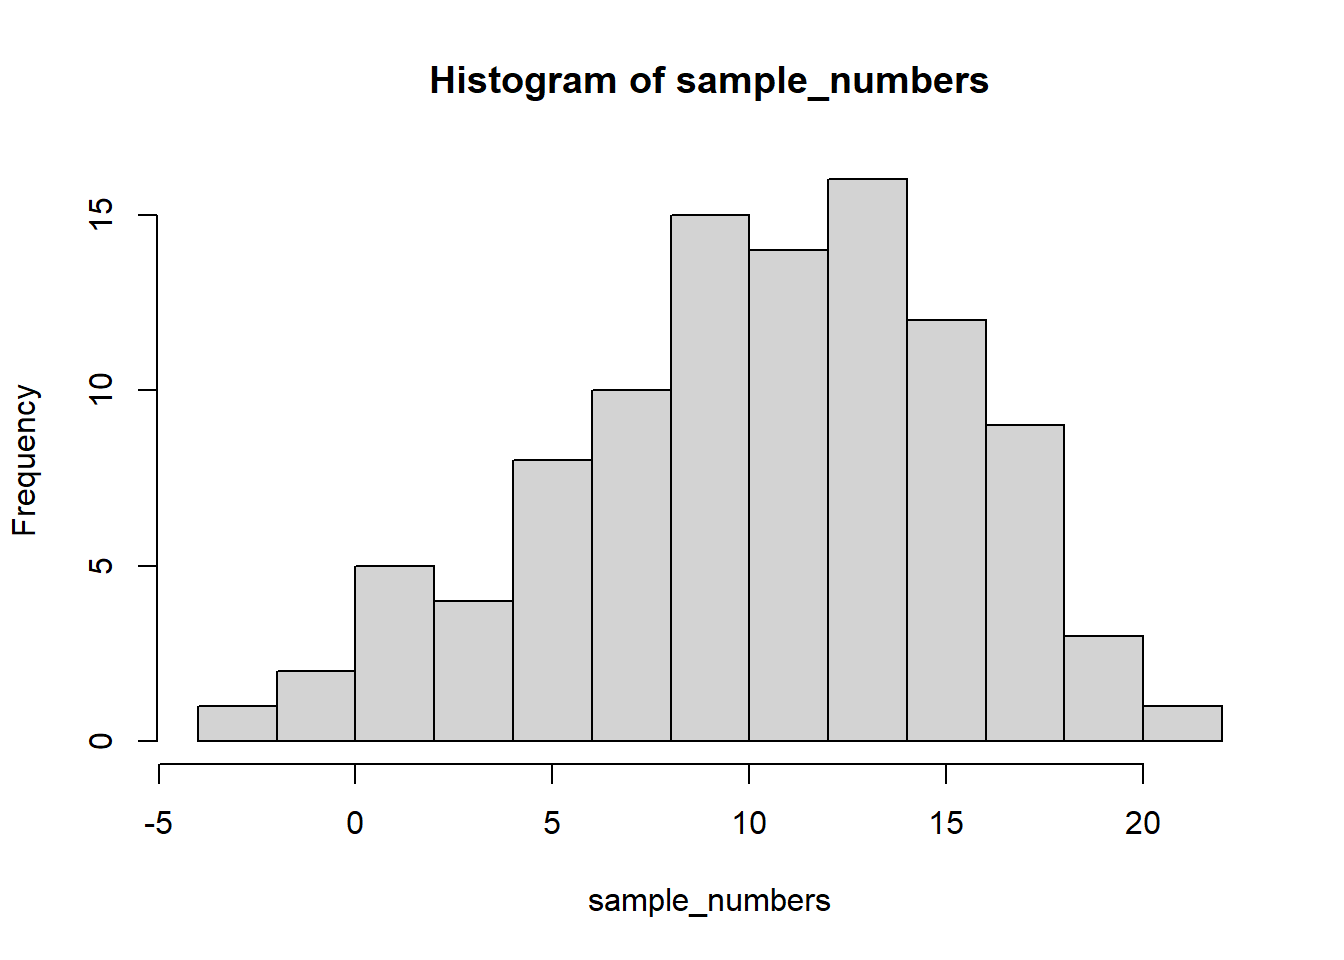
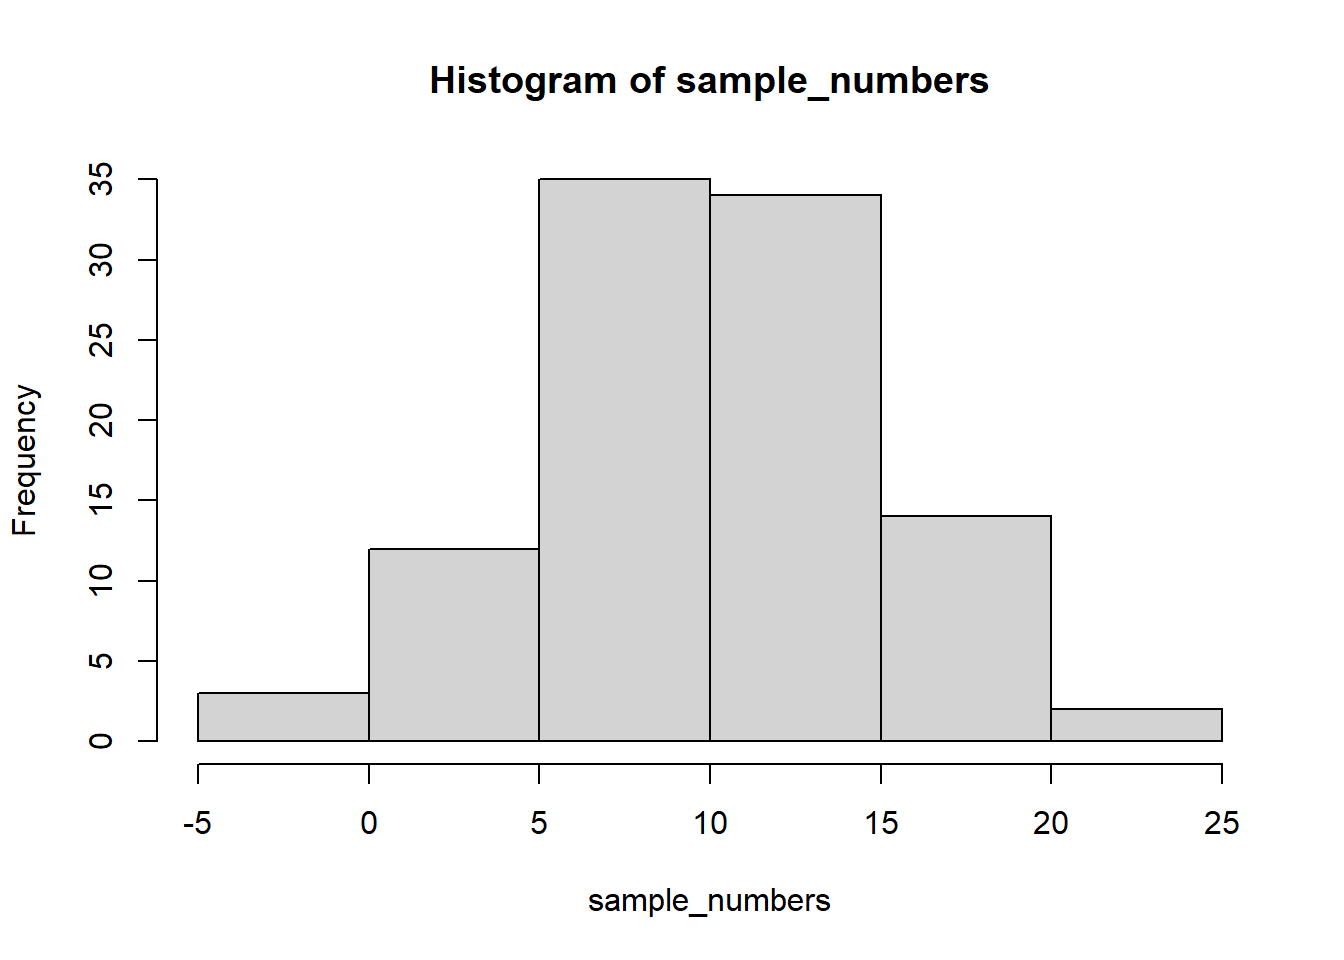
Lab 2.5
missed a Results alternative in previous update

diff --git a/docs/lab-2-descriptive-statistics-and-more-graphs.html b/docs/lab-2-descriptive-statistics-and-more-graphs.html
@@ -710,22 +710,22 @@ Describing comic sensibility is near impossible. It’s sort of an abstract sill
 <h4><span class="header-section-number">2.2.3.1</span> range<a href="lab-2-descriptive-statistics-and-more-graphs.html#range" class="anchor-section" aria-label="Anchor link to header"></a></h4>
 <p>The range is the minimum and maximum values in the set, we use the <code>range</code> function.</p>
 <div class="sourceCode" id="cb21"><pre class="sourceCode r"><code class="sourceCode r"><span id="cb21-1"><a href="lab-2-descriptive-statistics-and-more-graphs.html#cb21-1" tabindex="-1"></a><span class="fu">range</span>(sample_numbers)</span></code></pre></div>
-<pre><code>## [1] -2.224096 20.051960</code></pre>
+<pre><code>## [1] -4.404486 21.896583</code></pre>
 </div>
 <div id="var-variance" class="section level4 hasAnchor" number="2.2.3.2">
 <h4><span class="header-section-number">2.2.3.2</span> var = variance<a href="lab-2-descriptive-statistics-and-more-graphs.html#var-variance" class="anchor-section" aria-label="Anchor link to header"></a></h4>
 <p>We can find the sample variance using <code>var</code>. Note, divides by (n-1)</p>
 <div class="sourceCode" id="cb23"><pre class="sourceCode r"><code class="sourceCode r"><span id="cb23-1"><a href="lab-2-descriptive-statistics-and-more-graphs.html#cb23-1" tabindex="-1"></a><span class="fu">var</span>(sample_numbers)</span></code></pre></div>
-<pre><code>## [1] 26.0463</code></pre>
+<pre><code>## [1] 26.42051</code></pre>
 </div>
 <div id="sd-standard-deviation" class="section level4 hasAnchor" number="2.2.3.3">
 <h4><span class="header-section-number">2.2.3.3</span> sd = standard deviation<a href="lab-2-descriptive-statistics-and-more-graphs.html#sd-standard-deviation" class="anchor-section" aria-label="Anchor link to header"></a></h4>
 <p>We find the sample standard deviation us SD. Note, divides by (n-1)</p>
 <div class="sourceCode" id="cb25"><pre class="sourceCode r"><code class="sourceCode r"><span id="cb25-1"><a href="lab-2-descriptive-statistics-and-more-graphs.html#cb25-1" tabindex="-1"></a><span class="fu">sd</span>(sample_numbers)</span></code></pre></div>
-<pre><code>## [1] 5.103558</code></pre>
+<pre><code>## [1] 5.140088</code></pre>
 <p>Remember that the standard deviation is just the square root of the variance, see:</p>
 <div class="sourceCode" id="cb27"><pre class="sourceCode r"><code class="sourceCode r"><span id="cb27-1"><a href="lab-2-descriptive-statistics-and-more-graphs.html#cb27-1" tabindex="-1"></a><span class="fu">sqrt</span>(<span class="fu">var</span>(sample_numbers))</span></code></pre></div>
-<pre><code>## [1] 5.103558</code></pre>
+<pre><code>## [1] 5.140088</code></pre>
 </div>
 <div id="all-descriptives" class="section level4 hasAnchor" number="2.2.3.4">
 <h4><span class="header-section-number">2.2.3.4</span> All Descriptives<a href="lab-2-descriptive-statistics-and-more-graphs.html#all-descriptives" class="anchor-section" aria-label="Anchor link to header"></a></h4>
@@ -733,21 +733,21 @@ Describing comic sensibility is near impossible. It’s sort of an abstract sill
 <div class="sourceCode" id="cb29"><pre class="sourceCode r"><code class="sourceCode r"><span id="cb29-1"><a href="lab-2-descriptive-statistics-and-more-graphs.html#cb29-1" tabindex="-1"></a>sample_numbers <span class="ot">&lt;-</span> <span class="fu">rnorm</span>(<span class="dv">100</span>,<span class="dv">10</span>,<span class="dv">5</span>)</span>
 <span id="cb29-2"><a href="lab-2-descriptive-statistics-and-more-graphs.html#cb29-2" tabindex="-1"></a></span>
 <span id="cb29-3"><a href="lab-2-descriptive-statistics-and-more-graphs.html#cb29-3" tabindex="-1"></a><span class="fu">sum</span>(sample_numbers)</span></code></pre></div>
-<pre><code>## [1] 968.7609</code></pre>
+<pre><code>## [1] 1005.739</code></pre>
 <div class="sourceCode" id="cb31"><pre class="sourceCode r"><code class="sourceCode r"><span id="cb31-1"><a href="lab-2-descriptive-statistics-and-more-graphs.html#cb31-1" tabindex="-1"></a><span class="fu">length</span>(sample_numbers)</span></code></pre></div>
 <pre><code>## [1] 100</code></pre>
 <div class="sourceCode" id="cb33"><pre class="sourceCode r"><code class="sourceCode r"><span id="cb33-1"><a href="lab-2-descriptive-statistics-and-more-graphs.html#cb33-1" tabindex="-1"></a><span class="fu">mean</span>(sample_numbers)</span></code></pre></div>
-<pre><code>## [1] 9.687609</code></pre>
+<pre><code>## [1] 10.05739</code></pre>
 <div class="sourceCode" id="cb35"><pre class="sourceCode r"><code class="sourceCode r"><span id="cb35-1"><a href="lab-2-descriptive-statistics-and-more-graphs.html#cb35-1" tabindex="-1"></a><span class="fu">median</span>(sample_numbers)</span></code></pre></div>
-<pre><code>## [1] 9.30284</code></pre>
+<pre><code>## [1] 9.898635</code></pre>
 <div class="sourceCode" id="cb37"><pre class="sourceCode r"><code class="sourceCode r"><span id="cb37-1"><a href="lab-2-descriptive-statistics-and-more-graphs.html#cb37-1" tabindex="-1"></a><span class="fu">my_mode</span>(sample_numbers)</span></code></pre></div>
-<pre><code>## [1] 9.56202</code></pre>
+<pre><code>## [1] 7.807587</code></pre>
 <div class="sourceCode" id="cb39"><pre class="sourceCode r"><code class="sourceCode r"><span id="cb39-1"><a href="lab-2-descriptive-statistics-and-more-graphs.html#cb39-1" tabindex="-1"></a><span class="fu">range</span>(sample_numbers)</span></code></pre></div>
-<pre><code>## [1] -3.273155 22.850704</code></pre>
+<pre><code>## [1] -1.434182 22.780541</code></pre>
 <div class="sourceCode" id="cb41"><pre class="sourceCode r"><code class="sourceCode r"><span id="cb41-1"><a href="lab-2-descriptive-statistics-and-more-graphs.html#cb41-1" tabindex="-1"></a><span class="fu">var</span>(sample_numbers)</span></code></pre></div>
-<pre><code>## [1] 24.87459</code></pre>
+<pre><code>## [1] 28.34016</code></pre>
 <div class="sourceCode" id="cb43"><pre class="sourceCode r"><code class="sourceCode r"><span id="cb43-1"><a href="lab-2-descriptive-statistics-and-more-graphs.html#cb43-1" tabindex="-1"></a><span class="fu">sd</span>(sample_numbers)</span></code></pre></div>
-<pre><code>## [1] 4.987443</code></pre>
+<pre><code>## [1] 5.323547</code></pre>
 </div>
 </div>
 <div id="descriptives-by-conditions" class="section level3 hasAnchor" number="2.2.4">
@@ -760,11 +760,11 @@ Describing comic sensibility is near impossible. It’s sort of an abstract sill
 <p>If you look at the <code>my_df</code> data frame, you will see it has 100 rows, there are 10 rows for each condition with a label in the <code>conditions</code> column, and 10 scores for each condition in the <code>scores</code> column. What if you wanted to know the mean of the scores in each condition? You would want to find 10 means.</p>
 <p>The slow way to do it would be like this:</p>
 <div class="sourceCode" id="cb46"><pre class="sourceCode r"><code class="sourceCode r"><span id="cb46-1"><a href="lab-2-descriptive-statistics-and-more-graphs.html#cb46-1" tabindex="-1"></a><span class="fu">mean</span>(my_df[my_df<span class="sc">$</span>conditions<span class="sc">==</span><span class="st">&quot;A&quot;</span>,]<span class="sc">$</span>scores)</span></code></pre></div>
-<pre><code>## [1] 10.79991</code></pre>
+<pre><code>## [1] 9.984587</code></pre>
 <div class="sourceCode" id="cb48"><pre class="sourceCode r"><code class="sourceCode r"><span id="cb48-1"><a href="lab-2-descriptive-statistics-and-more-graphs.html#cb48-1" tabindex="-1"></a><span class="fu">mean</span>(my_df[my_df<span class="sc">$</span>conditions<span class="sc">==</span><span class="st">&quot;B&quot;</span>,]<span class="sc">$</span>scores)</span></code></pre></div>
-<pre><code>## [1] 7.747982</code></pre>
+<pre><code>## [1] 8.74282</code></pre>
 <div class="sourceCode" id="cb50"><pre class="sourceCode r"><code class="sourceCode r"><span id="cb50-1"><a href="lab-2-descriptive-statistics-and-more-graphs.html#cb50-1" tabindex="-1"></a><span class="fu">mean</span>(my_df[my_df<span class="sc">$</span>conditions<span class="sc">==</span><span class="st">&quot;C&quot;</span>,]<span class="sc">$</span>scores)</span></code></pre></div>
-<pre><code>## [1] 7.944162</code></pre>
+<pre><code>## [1] 8.216414</code></pre>
 <div class="sourceCode" id="cb52"><pre class="sourceCode r"><code class="sourceCode r"><span id="cb52-1"><a href="lab-2-descriptive-statistics-and-more-graphs.html#cb52-1" tabindex="-1"></a><span class="co"># and then keep going</span></span></code></pre></div>
 <p>Nobody wants to do that! Not, me I stopped doing it that way, you should to.</p>
 <div id="group_by-and-summarise" class="section level4 hasAnchor" number="2.2.4.1">
@@ -785,16 +785,16 @@ Describing comic sensibility is near impossible. It’s sort of an abstract sill
 <pre><code>## # A tibble: 10 × 2
 ##    conditions means
 ##    &lt;chr&gt;      &lt;dbl&gt;
-##  1 A          10.8 
-##  2 B           7.75
-##  3 C           7.94
-##  4 D          11.8 
-##  5 E          11.7 
-##  6 F           7.52
-##  7 G           9.74
-##  8 H          11.4 
-##  9 I           9.28
-## 10 J          13.3</code></pre>
+##  1 A           9.98
+##  2 B           8.74
+##  3 C           8.22
+##  4 D          11.2 
+##  5 E          12.0 
+##  6 F          10.8 
+##  7 G          10.9 
+##  8 H           9.30
+##  9 I           9.93
+## 10 J          10.2</code></pre>
 <p>A couple things now. First, the print out of this was ugly. Let’s fix that. we put the results of our code into a new variable, then we use <code>knitr::kable</code> to print it out nicely when we <code>knit</code> the document</p>
 <div class="sourceCode" id="cb59"><pre class="sourceCode r"><code class="sourceCode r"><span id="cb59-1"><a href="lab-2-descriptive-statistics-and-more-graphs.html#cb59-1" tabindex="-1"></a>summary_df <span class="ot">&lt;-</span> my_df <span class="sc">%&gt;%</span></span>
 <span id="cb59-2"><a href="lab-2-descriptive-statistics-and-more-graphs.html#cb59-2" tabindex="-1"></a>               <span class="fu">group_by</span>(conditions) <span class="sc">%&gt;%</span></span>
@@ -811,43 +811,43 @@ Describing comic sensibility is near impossible. It’s sort of an abstract sill
 <tbody>
 <tr class="odd">
 <td align="left">A</td>
-<td align="right">10.799909</td>
+<td align="right">9.984587</td>
 </tr>
 <tr class="even">
 <td align="left">B</td>
-<td align="right">7.747982</td>
+<td align="right">8.742820</td>
 </tr>
 <tr class="odd">
 <td align="left">C</td>
-<td align="right">7.944161</td>
+<td align="right">8.216414</td>
 </tr>
 <tr class="even">
 <td align="left">D</td>
-<td align="right">11.819984</td>
+<td align="right">11.154947</td>
 </tr>
 <tr class="odd">
 <td align="left">E</td>
-<td align="right">11.703735</td>
+<td align="right">11.979763</td>
 </tr>
 <tr class="even">
 <td align="left">F</td>
-<td align="right">7.518675</td>
+<td align="right">10.766915</td>
 </tr>
 <tr class="odd">
 <td align="left">G</td>
-<td align="right">9.740545</td>
+<td align="right">10.906135</td>
 </tr>
 <tr class="even">
 <td align="left">H</td>
-<td align="right">11.388501</td>
+<td align="right">9.297604</td>
 </tr>
 <tr class="odd">
 <td align="left">I</td>
-<td align="right">9.278569</td>
+<td align="right">9.930178</td>
 </tr>
 <tr class="even">
 <td align="left">J</td>
-<td align="right">13.254409</td>
+<td align="right">10.181654</td>
 </tr>
 </tbody>
 </table>
@@ -872,53 +872,53 @@ Describing comic sensibility is near impossible. It’s sort of an abstract sill
 <tbody>
 <tr class="odd">
 <td align="left">A</td>
-<td align="right">10.799909</td>
-<td align="right">3.794033</td>
+<td align="right">9.984587</td>
+<td align="right">5.959536</td>
 </tr>
 <tr class="even">
 <td align="left">B</td>
-<td align="right">7.747982</td>
-<td align="right">4.588678</td>
+<td align="right">8.742820</td>
+<td align="right">4.839645</td>
 </tr>
 <tr class="odd">
 <td align="left">C</td>
-<td align="right">7.944161</td>
-<td align="right">5.057013</td>
+<td align="right">8.216414</td>
+<td align="right">4.031068</td>
 </tr>
 <tr class="even">
 <td align="left">D</td>
-<td align="right">11.819984</td>
-<td align="right">5.365915</td>
+<td align="right">11.154947</td>
+<td align="right">4.620721</td>
 </tr>
 <tr class="odd">
 <td align="left">E</td>
-<td align="right">11.703735</td>
-<td align="right">5.742502</td>
+<td align="right">11.979763</td>
+<td align="right">3.100039</td>
 </tr>
 <tr class="even">
 <td align="left">F</td>
-<td align="right">7.518675</td>
-<td align="right">6.866541</td>
+<td align="right">10.766915</td>
+<td align="right">4.756701</td>
 </tr>
 <tr class="odd">
 <td align="left">G</td>
-<td align="right">9.740545</td>
-<td align="right">3.948274</td>
+<td align="right">10.906135</td>
+<td align="right">5.155881</td>
 </tr>
 <tr class="even">
 <td align="left">H</td>
-<td align="right">11.388501</td>
-<td align="right">5.443245</td>
+<td align="right">9.297604</td>
+<td align="right">4.020626</td>
 </tr>
 <tr class="odd">
 <td align="left">I</td>
-<td align="right">9.278569</td>
-<td align="right">3.654370</td>
+<td align="right">9.930178</td>
+<td align="right">4.191490</td>
 </tr>
 <tr class="even">
 <td align="left">J</td>
-<td align="right">13.254409</td>
-<td align="right">2.993933</td>
+<td align="right">10.181654</td>
+<td align="right">4.164576</td>
 </tr>
 </tbody>
 </table>
@@ -944,73 +944,73 @@ Describing comic sensibility is near impossible. It’s sort of an abstract sill
 <tbody>
 <tr class="odd">
 <td align="left">A</td>
-<td align="right">10.799909</td>
-<td align="right">3.794033</td>
-<td align="right">5.2461497</td>
-<td align="right">16.43098</td>
+<td align="right">9.984587</td>
+<td align="right">5.959536</td>
+<td align="right">2.3516632</td>
+<td align="right">19.94653</td>
 </tr>
 <tr class="even">
 <td align="left">B</td>
-<td align="right">7.747982</td>
-<td align="right">4.588678</td>
-<td align="right">-0.3057418</td>
-<td align="right">13.92444</td>
+<td align="right">8.742820</td>
+<td align="right">4.839645</td>
+<td align="right">4.2095279</td>
+<td align="right">21.90583</td>
 </tr>
 <tr class="odd">
 <td align="left">C</td>
-<td align="right">7.944161</td>
-<td align="right">5.057013</td>
-<td align="right">-0.0523421</td>
-<td align="right">15.81587</td>
+<td align="right">8.216414</td>
+<td align="right">4.031068</td>
+<td align="right">0.9972953</td>
+<td align="right">15.87996</td>
 </tr>
 <tr class="even">
 <td align="left">D</td>
-<td align="right">11.819984</td>
-<td align="right">5.365915</td>
-<td align="right">6.2893655</td>
-<td align="right">23.71124</td>
+<td align="right">11.154947</td>
+<td align="right">4.620721</td>
+<td align="right">3.6452574</td>
+<td align="right">20.62457</td>
 </tr>
 <tr class="odd">
 <td align="left">E</td>
-<td align="right">11.703735</td>
-<td align="right">5.742502</td>
-<td align="right">5.5242518</td>
-<td align="right">20.52784</td>
+<td align="right">11.979763</td>
+<td align="right">3.100039</td>
+<td align="right">8.4816824</td>
+<td align="right">18.25432</td>
 </tr>
 <tr class="even">
 <td align="left">F</td>
-<td align="right">7.518675</td>
-<td align="right">6.866541</td>
-<td align="right">-3.2207119</td>
-<td align="right">23.60329</td>
+<td align="right">10.766915</td>
+<td align="right">4.756701</td>
+<td align="right">2.2696380</td>
+<td align="right">16.19561</td>
 </tr>
 <tr class="odd">
 <td align="left">G</td>
-<td align="right">9.740545</td>
-<td align="right">3.948274</td>
-<td align="right">0.8774567</td>
-<td align="right">15.10712</td>
+<td align="right">10.906135</td>
+<td align="right">5.155881</td>
+<td align="right">3.3803223</td>
+<td align="right">16.87260</td>
 </tr>
 <tr class="even">
 <td align="left">H</td>
-<td align="right">11.388501</td>
-<td align="right">5.443245</td>
-<td align="right">4.9191463</td>
-<td align="right">21.18832</td>
+<td align="right">9.297604</td>
+<td align="right">4.020626</td>
+<td align="right">4.3214107</td>
+<td align="right">17.26271</td>
 </tr>
 <tr class="odd">
 <td align="left">I</td>
-<td align="right">9.278569</td>
-<td align="right">3.654370</td>
-<td align="right">4.1841597</td>
-<td align="right">14.92081</td>
+<td align="right">9.930178</td>
+<td align="right">4.191490</td>
+<td align="right">5.3984641</td>
+<td align="right">17.02553</td>
 </tr>
 <tr class="even">
 <td align="left">J</td>
-<td align="right">13.254409</td>
-<td align="right">2.993933</td>
-<td align="right">8.6167620</td>
-<td align="right">18.69005</td>
+<td align="right">10.181654</td>
+<td align="right">4.164576</td>
+<td align="right">2.5476014</td>
+<td align="right">18.39948</td>
 </tr>
 </tbody>
 </table>
@@ -1296,7 +1296,9 @@ Describing comic sensibility is near impossible. It’s sort of an abstract sill
 <p>We can also ask for a histogram of <code>R_SLEEP</code>:</p>
 <p><img src="img/r_sleephistogram.png" /><!-- --></p>
 <p>Now that the <em>x</em>-axis stops at 23 instead of 8e+6, we can see the shape of the distribution much better. The tallest bar is somewhere around 7. Almost all of the responses are between 4 and 10.</p>
-<p>You often have to write sentences to report your descriptive statistics. For sleep, you might write: The mean (standard deviation) hours of sleep per day reported by Nova Scotians was 7.05 (1.30).</p>
+<p>You often have to write sentences to report your descriptive statistics. For sleep, you might write: Nova Scotians who participated in the study reported a mean of 7.05 hours of sleep per day (<em>M</em> = 7.05, <em>SD</em> = 1.30).
+Or like this…
+The mean (standard deviation) hours of sleep per day reported by Nova Scotians was 7.05 (1.30).</p>
 </div>
 <div id="example-2-volunteering" class="section level4 hasAnchor" number="2.5.4.2">
 <h4><span class="header-section-number">2.5.4.2</span> Example 2: Volunteering<a href="lab-2-descriptive-statistics-and-more-graphs.html#example-2-volunteering" class="anchor-section" aria-label="Anchor link to header"></a></h4>
